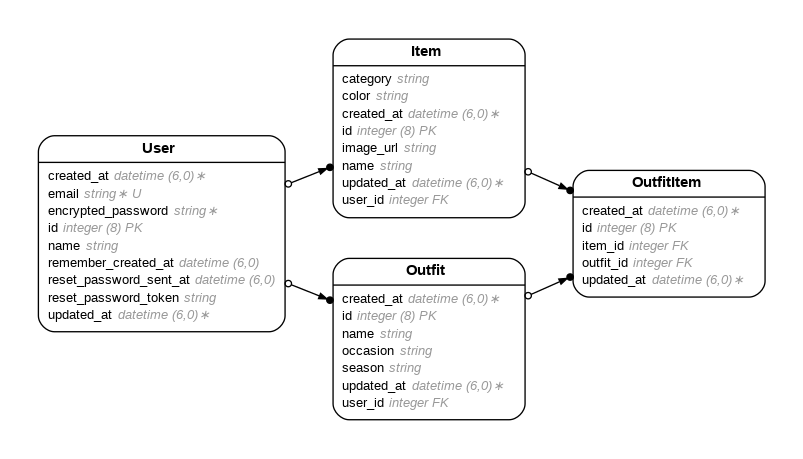
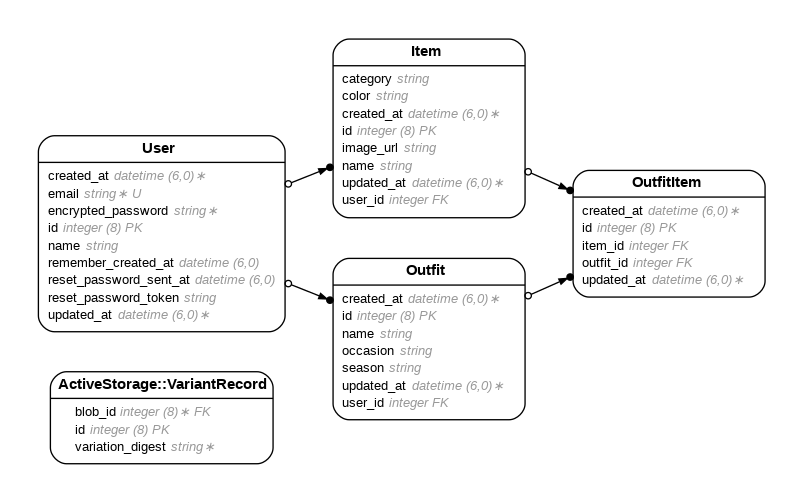
add a new item

Changed region(s): [[0.0311, 0.061, 0.9651, 0.9455], [0.6227, 0.8845, 0.6538, 0.915]]

diff --git a/db/schema.rb b/db/schema.rb
@@ -10,9 +10,37 @@
 #
 # It's strongly recommended that you check this file into your version control system.
 
-ActiveRecord::Schema[8.0].define(version: 2025_11_24_212657) do
+ActiveRecord::Schema[8.0].define(version: 2025_12_06_174832) do
   # These are extensions that must be enabled in order to support this database
   enable_extension "pg_catalog.plpgsql"
+
+  create_table "active_storage_attachments", force: :cascade do |t|
+    t.string "name", null: false
+    t.string "record_type", null: false
+    t.bigint "record_id", null: false
+    t.bigint "blob_id", null: false
+    t.datetime "created_at", null: false
+    t.index ["blob_id"], name: "index_active_storage_attachments_on_blob_id"
+    t.index ["record_type", "record_id", "name", "blob_id"], name: "index_active_storage_attachments_uniqueness", unique: true
+  end
+
+  create_table "active_storage_blobs", force: :cascade do |t|
+    t.string "key", null: false
+    t.string "filename", null: false
+    t.string "content_type"
+    t.text "metadata"
+    t.string "service_name", null: false
+    t.bigint "byte_size", null: false
+    t.string "checksum"
+    t.datetime "created_at", null: false
+    t.index ["key"], name: "index_active_storage_blobs_on_key", unique: true
+  end
+
+  create_table "active_storage_variant_records", force: :cascade do |t|
+    t.bigint "blob_id", null: false
+    t.string "variation_digest", null: false
+    t.index ["blob_id", "variation_digest"], name: "index_active_storage_variant_records_uniqueness", unique: true
+  end
 
   create_table "items", force: :cascade do |t|
     t.string "name"
@@ -195,6 +223,8 @@ ActiveRecord::Schema[8.0].define(version: 2025_11_24_212657) do
     t.index ["reset_password_token"], name: "index_users_on_reset_password_token", unique: true
   end
 
+  add_foreign_key "active_storage_attachments", "active_storage_blobs", column: "blob_id"
+  add_foreign_key "active_storage_variant_records", "active_storage_blobs", column: "blob_id"
   add_foreign_key "solid_queue_blocked_executions", "solid_queue_jobs", column: "job_id", on_delete: :cascade
   add_foreign_key "solid_queue_claimed_executions", "solid_queue_jobs", column: "job_id", on_delete: :cascade
   add_foreign_key "solid_queue_failed_executions", "solid_queue_jobs", column: "job_id", on_delete: :cascade

diff --git a/db/migrate/20251206174832_create_active_storage_tables.active_storage.rb b/db/migrate/20251206174832_create_active_storage_tables.active_storage.rb
@@ -1,0 +1,57 @@
+# This migration comes from active_storage (originally 20170806125915)
+class CreateActiveStorageTables < ActiveRecord::Migration[7.0]
+  def change
+    # Use Active Record's configured type for primary and foreign keys
+    primary_key_type, foreign_key_type = primary_and_foreign_key_types
+
+    create_table :active_storage_blobs, id: primary_key_type do |t|
+      t.string   :key,          null: false
+      t.string   :filename,     null: false
+      t.string   :content_type
+      t.text     :metadata
+      t.string   :service_name, null: false
+      t.bigint   :byte_size,    null: false
+      t.string   :checksum
+
+      if connection.supports_datetime_with_precision?
+        t.datetime :created_at, precision: 6, null: false
+      else
+        t.datetime :created_at, null: false
+      end
+
+      t.index [ :key ], unique: true
+    end
+
+    create_table :active_storage_attachments, id: primary_key_type do |t|
+      t.string     :name,     null: false
+      t.references :record,   null: false, polymorphic: true, index: false, type: foreign_key_type
+      t.references :blob,     null: false, type: foreign_key_type
+
+      if connection.supports_datetime_with_precision?
+        t.datetime :created_at, precision: 6, null: false
+      else
+        t.datetime :created_at, null: false
+      end
+
+      t.index [ :record_type, :record_id, :name, :blob_id ], name: :index_active_storage_attachments_uniqueness, unique: true
+      t.foreign_key :active_storage_blobs, column: :blob_id
+    end
+
+    create_table :active_storage_variant_records, id: primary_key_type do |t|
+      t.belongs_to :blob, null: false, index: false, type: foreign_key_type
+      t.string :variation_digest, null: false
+
+      t.index [ :blob_id, :variation_digest ], name: :index_active_storage_variant_records_uniqueness, unique: true
+      t.foreign_key :active_storage_blobs, column: :blob_id
+    end
+  end
+
+  private
+    def primary_and_foreign_key_types
+      config = Rails.configuration.generators
+      setting = config.options[config.orm][:primary_key_type]
+      primary_key_type = setting || :primary_key
+      foreign_key_type = setting || :bigint
+      [ primary_key_type, foreign_key_type ]
+    end
+end

diff --git a/app/uploaders/image_uploader.rb b/app/uploaders/image_uploader.rb
@@ -1,0 +1,48 @@
+class ImageUploader < CarrierWave::Uploader::Base
+  # Include RMagick, MiniMagick, or Vips support:
+  # include CarrierWave::RMagick
+  # include CarrierWave::MiniMagick
+  # include CarrierWave::Vips
+
+  # Choose what kind of storage to use for this uploader:
+  storage :file
+  # storage :fog
+
+  # Override the directory where uploaded files will be stored.
+  # This is a sensible default for uploaders that are meant to be mounted:
+  def store_dir
+    "uploads/#{model.class.to_s.underscore}/#{mounted_as}/#{model.id}"
+  end
+
+  # Provide a default URL as a default if there hasn't been a file uploaded:
+  # def default_url(*args)
+  #   # For Rails 3.1+ asset pipeline compatibility:
+  #   # ActionController::Base.helpers.asset_path("fallback/" + [version_name, "default.png"].compact.join('_'))
+  #
+  #   "/images/fallback/" + [version_name, "default.png"].compact.join('_')
+  # end
+
+  # Process files as they are uploaded:
+  # process scale: [200, 300]
+  #
+  # def scale(width, height)
+  #   # do something
+  # end
+
+  # Create different versions of your uploaded files:
+  # version :thumb do
+  #   process resize_to_fit: [50, 50]
+  # end
+
+  # Add an allowlist of extensions which are allowed to be uploaded.
+  # For images you might use something like this:
+  # def extension_allowlist
+  #   %w(jpg jpeg gif png)
+  # end
+
+  # Override the filename of the uploaded files:
+  # Avoid using model.id or version_name here, see uploader/store.rb for details.
+  # def filename
+  #   "something.jpg"
+  # end
+end

diff --git a/app/controllers/items_controller.rb b/app/controllers/items_controller.rb
@@ -1,4 +1,10 @@
 class ItemsController < ApplicationController
+
+  def new
+  @the_item = Item.new
+  render template: "item_templates/new"
+end
+
   def index
     matching_items = Item.all
 
@@ -18,20 +24,20 @@ class ItemsController < ApplicationController
   end
 
   def create
-    the_item = Item.new
-    the_item.name = params.fetch("query_name")
-    the_item.category = params.fetch("query_category")
-    the_item.color = params.fetch("query_color")
-    the_item.image_url = params.fetch("query_image_url")
-    the_item.user_id = params.fetch("query_user_id")
+  the_item = Item.new
+  the_item.name = params.fetch("query_name")
+  the_item.category = params.fetch("query_category")
+  the_item.color = params.fetch("query_color")
+  the_item.image_url = params.fetch("query_image_url")
+  the_item.user_id = current_user.id   # ← FIXED HERE
 
-    if the_item.valid?
-      the_item.save
-      redirect_to("/items", { :notice => "Item created successfully." })
-    else
-      redirect_to("/items", { :alert => the_item.errors.full_messages.to_sentence })
-    end
+  if the_item.valid?
+    the_item.save
+    redirect_to("/items", { :notice => "Item created successfully." })
+  else
+    redirect_to("/items", { :alert => the_item.errors.full_messages.to_sentence })
   end
+end
 
   def update
     the_id = params.fetch("path_id")

diff --git a/config/routes.rb b/config/routes.rb
@@ -4,6 +4,10 @@ Rails.application.routes.draw do
   # CREATE
   post("/insert_outfit_item", { :controller => "outfit_items", :action => "create" })
 
+  get "/items/new", to: "items#new"
+post "/insert_item", to: "items#create"
+
+
   # READ
   get("/outfit_items", { :controller => "outfit_items", :action => "index" })
 

diff --git a/config/environment.rb b/config/environment.rb
@@ -1,5 +1,7 @@
 # Load the Rails application.
 require_relative "application"
+require "carrierwave"
+require "carrierwave/orm/activerecord"
 
 # Initialize the Rails application.
 Rails.application.initialize!
